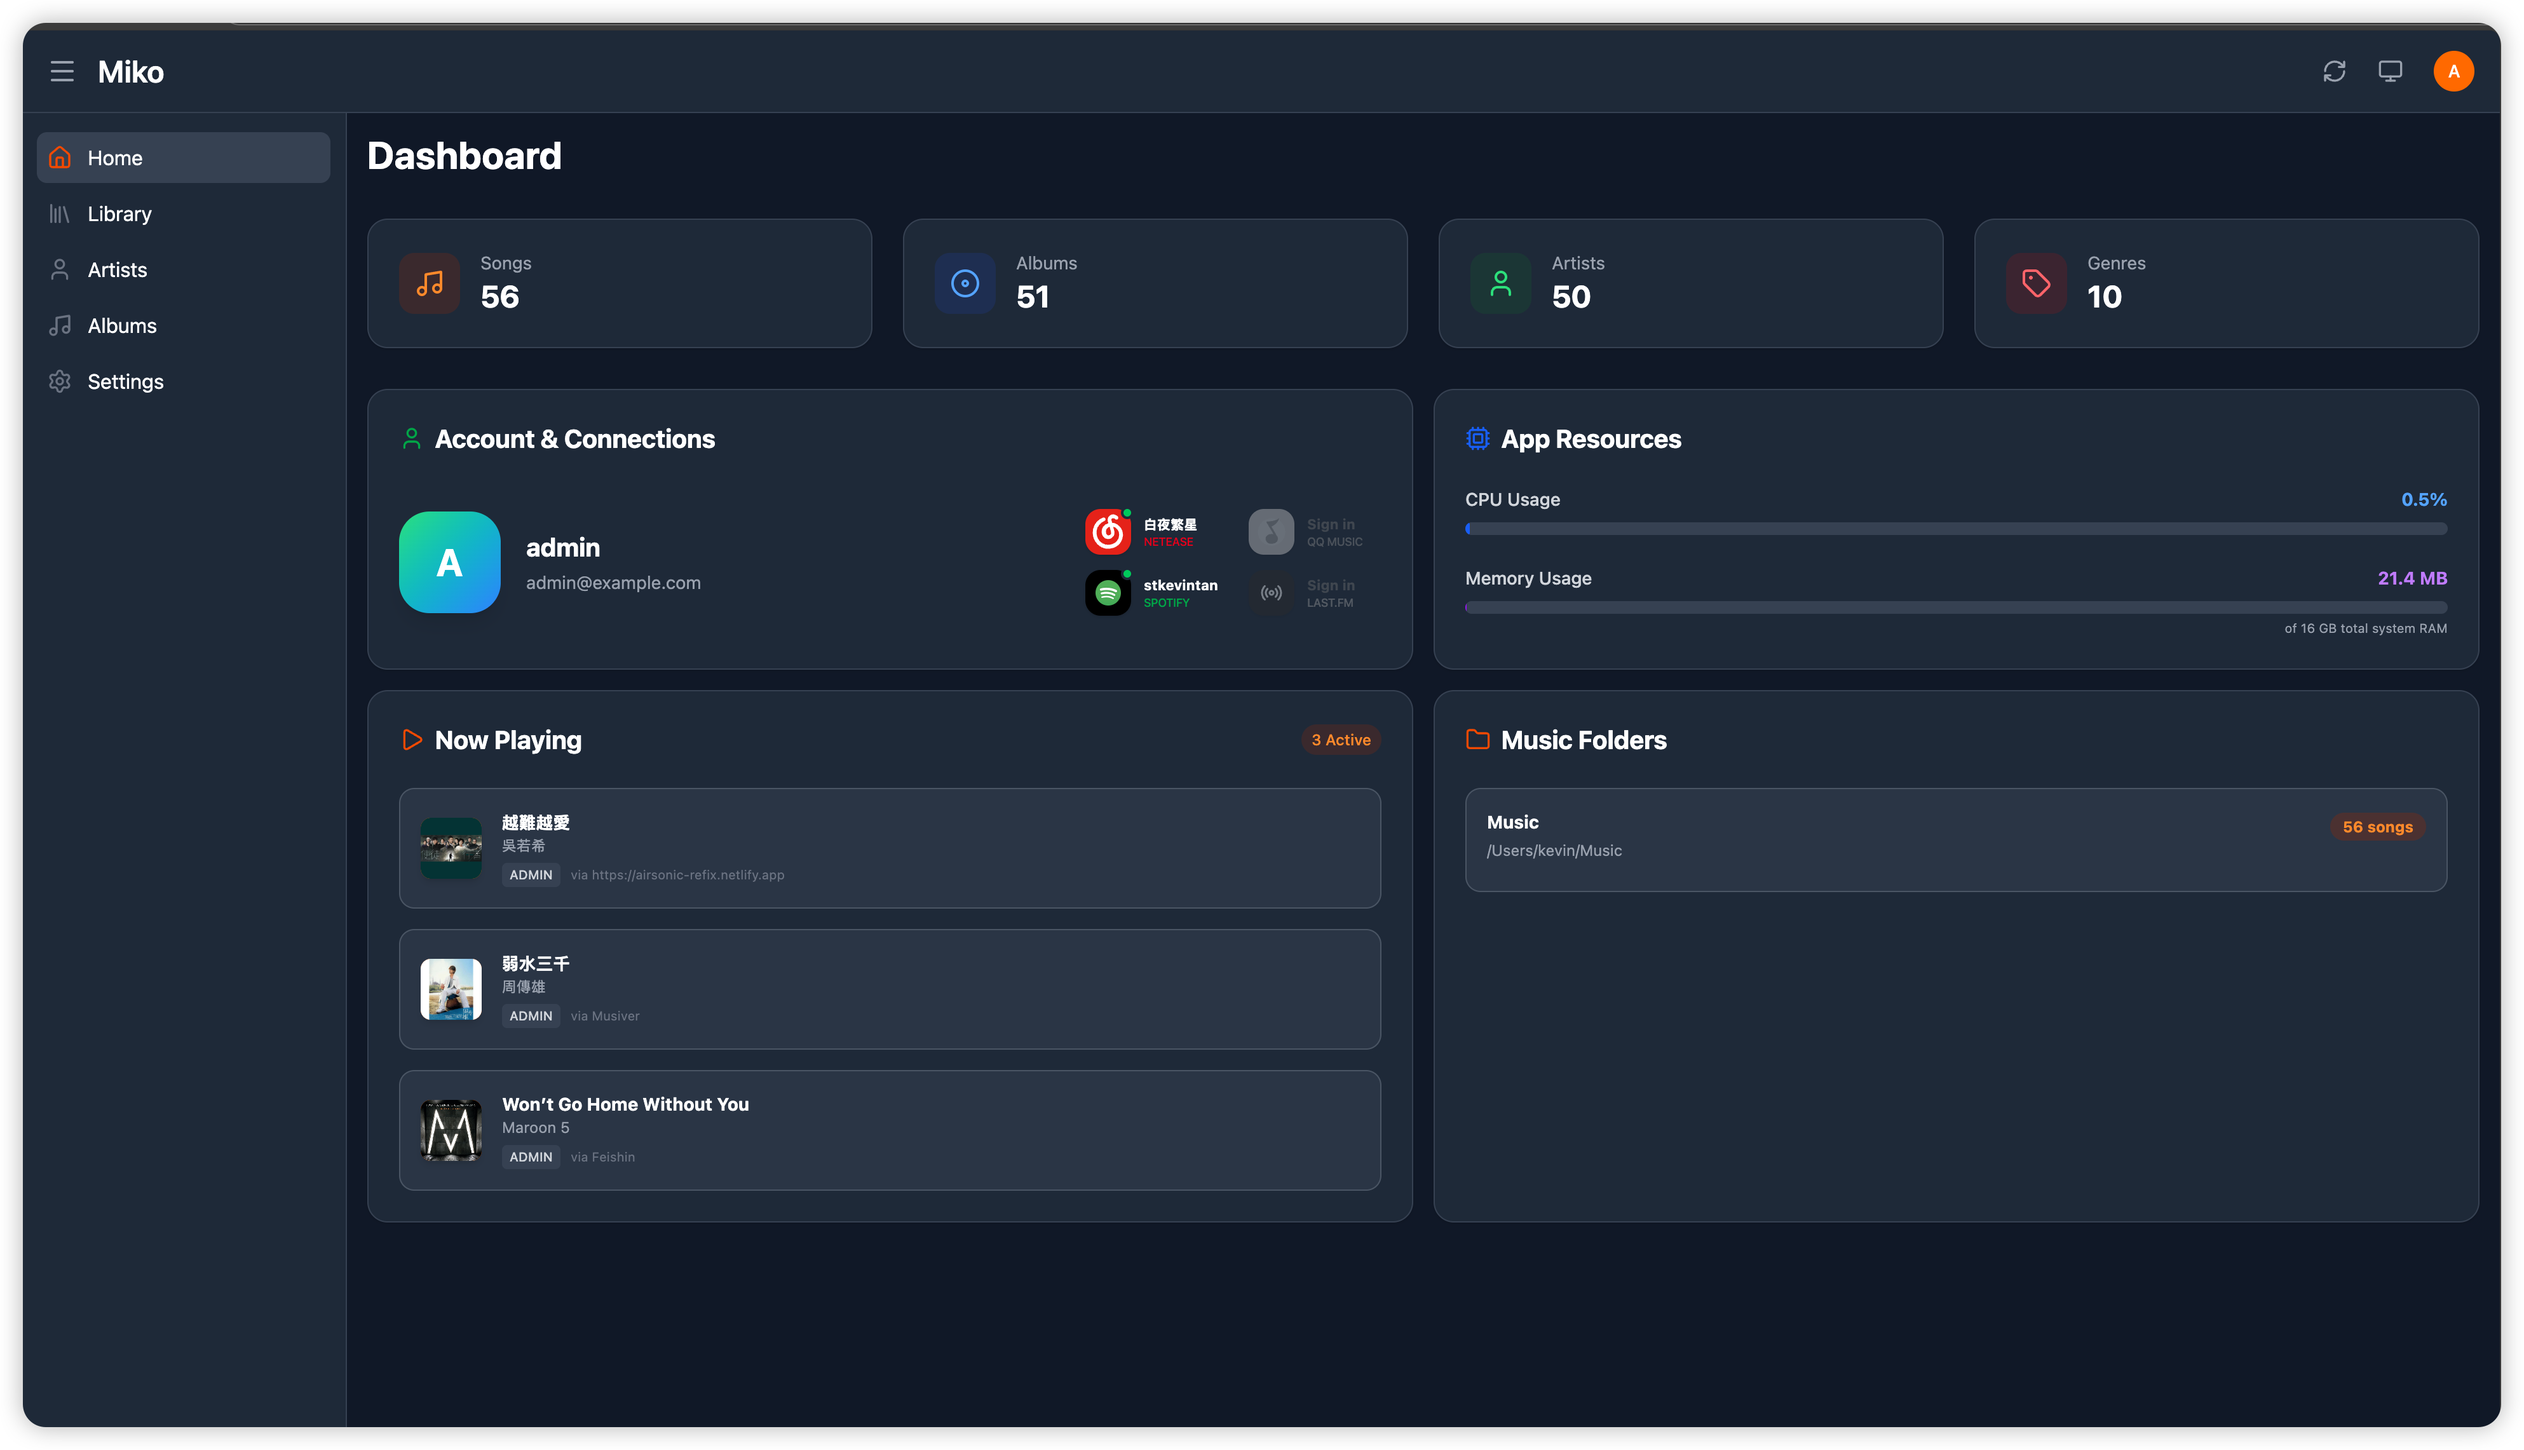
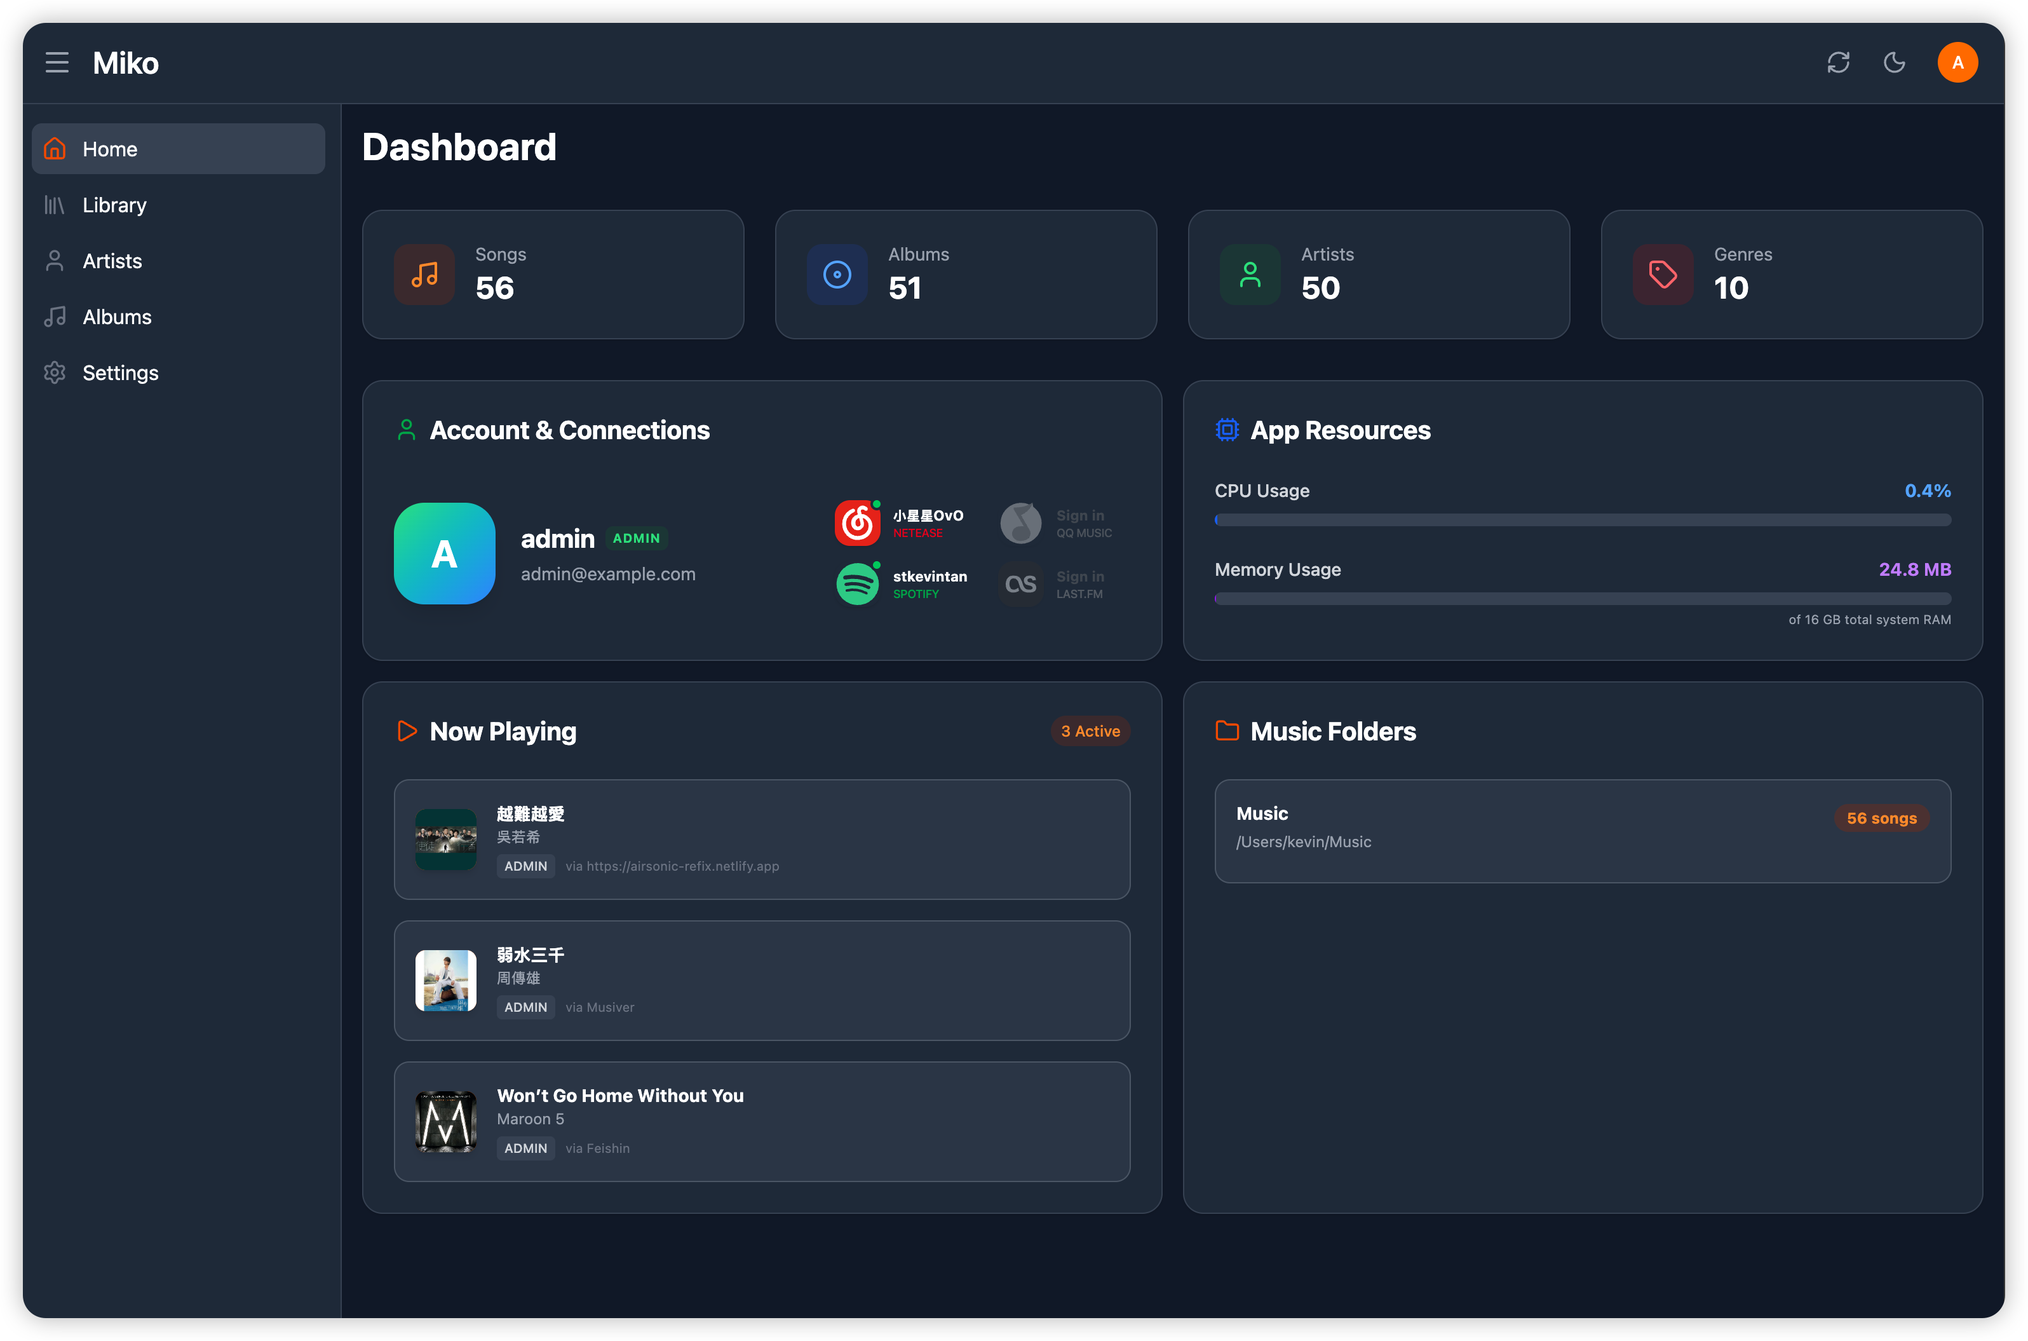
polish the connection items

diff --git a/web/routes/Dashboard.svelte b/web/routes/Dashboard.svelte
@@ -4,9 +4,11 @@
     import MainLayout from '../components/MainLayout.svelte';
     import StatCard from '../components/StatCard.svelte';
     import DashboardCard from '../components/DashboardCard.svelte';
+    import ConnectionItem from '../components/ConnectionItem.svelte';
     import { authStore } from '../lib/auth.svelte';
     import { toast } from '../lib/toast.svelte';
-    import spotifyIcon from '../icons/spotify-48.png';
+    import spotifyIcon from '../icons/spotify.svg';
+    import lastfmIcon from '../icons/lastfm.svg';
     import neteaseIcon from '../icons/netease.svg';
     import qqmusicIcon from '../icons/qqmusic.svg';
 
@@ -20,7 +22,6 @@
         Disc,
         Tag,
         Folder,
-        Radio,
     } from 'lucide-svelte';
 
     let token = $state(localStorage.getItem('token'));
@@ -189,123 +190,35 @@
                             <div
                                 class="grid grid-cols-2 gap-x-6 gap-y-3 shrink-0"
                             >
-                                <!-- Netease Connection -->
-                                <div
-                                    class="flex items-center gap-2.5 group cursor-pointer"
-                                    title="Netease: 白夜繁星"
-                                >
-                                    <div class="relative">
-                                        <div
-                                            class="w-9 h-9 rounded-xl flex items-center justify-center overflow-hidden shadow-sm transition-transform group-hover:scale-110"
-                                        >
-                                            <img
-                                                src={neteaseIcon}
-                                                alt="Netease"
-                                                class="w-full h-full object-contain"
-                                            />
-                                        </div>
-                                        <span
-                                            class="absolute -top-0.5 -right-0.5 block h-2.5 w-2.5 rounded-full bg-green-500 border-2 border-white dark:border-gray-800"
-                                        ></span>
-                                    </div>
-                                    <div class="min-w-0">
-                                        <p
-                                            class="text-[11px] font-bold text-gray-900 dark:text-white leading-tight truncate"
-                                        >
-                                            白夜繁星
-                                        </p>
-                                        <p
-                                            class="text-[9px] text-red-600 font-medium uppercase tracking-tighter leading-none mt-0.5"
-                                        >
-                                            Netease
-                                        </p>
-                                    </div>
-                                </div>
+                                <ConnectionItem
+                                    name="Netease"
+                                    username="小星星OvO"
+                                    iconSrc={neteaseIcon}
+                                    statusColor="text-red-600"
+                                    connected={true}
+                                />
 
-                                <!-- QQ Music Connection -->
-                                <div
-                                    class="flex items-center gap-2.5 group cursor-pointer opacity-40 grayscale hover:opacity-100 hover:grayscale-0 transition-all"
-                                    title="QQ Music: Disconnected"
-                                >
-                                    <div
-                                        class="w-9 h-9 rounded-xl bg-[#FFD000] flex items-center justify-center overflow-hidden shadow-sm transition-transform group-hover:scale-110"
-                                    >
-                                        <img
-                                            src={qqmusicIcon}
-                                            alt="QQ Music"
-                                            class="w-6 h-6 object-contain"
-                                        />
-                                    </div>
-                                    <div class="min-w-0">
-                                        <p
-                                            class="text-[11px] font-bold text-gray-400 dark:text-gray-500 leading-tight truncate"
-                                        >
-                                            Sign in
-                                        </p>
-                                        <p
-                                            class="text-[9px] text-yellow-600 font-medium uppercase tracking-tighter leading-none mt-0.5"
-                                        >
-                                            QQ Music
-                                        </p>
-                                    </div>
-                                </div>
+                                <ConnectionItem
+                                    name="QQ Music"
+                                    iconSrc={qqmusicIcon}
+                                    statusColor="text-yellow-600"
+                                    connected={false}
+                                />
 
-                                <!-- Spotify Connection -->
-                                <div
-                                    class="flex items-center gap-2.5 group cursor-pointer"
-                                    title="Spotify: stkevintan"
-                                >
-                                    <div class="relative">
-                                        <div
-                                            class="w-9 h-9 rounded-xl bg-black flex items-center justify-center overflow-hidden shadow-sm transition-transform group-hover:scale-110"
-                                        >
-                                            <img
-                                                src={spotifyIcon}
-                                                alt="Spotify"
-                                                class="w-6 h-6 object-contain"
-                                            />
-                                        </div>
-                                        <span
-                                            class="absolute -top-0.5 -right-0.5 block h-2.5 w-2.5 rounded-full bg-green-500 border-2 border-white dark:border-gray-800"
-                                        ></span>
-                                    </div>
-                                    <div class="min-w-0">
-                                        <p
-                                            class="text-[11px] font-bold text-gray-900 dark:text-white leading-tight truncate"
-                                        >
-                                            stkevintan
-                                        </p>
-                                        <p
-                                            class="text-[9px] text-green-600 font-medium uppercase tracking-tighter leading-none mt-0.5"
-                                        >
-                                            Spotify
-                                        </p>
-                                    </div>
-                                </div>
+                                <ConnectionItem
+                                    name="Spotify"
+                                    username="stkevintan"
+                                    iconSrc={spotifyIcon}
+                                    statusColor="text-green-600"
+                                    connected={true}
+                                />
 
-                                <!-- Last.fm Connection -->
-                                <div
-                                    class="flex items-center gap-2.5 group cursor-pointer opacity-40 grayscale hover:opacity-100 hover:grayscale-0 transition-all"
-                                    title="Last.fm: Disconnected"
-                                >
-                                    <div
-                                        class="w-9 h-9 rounded-xl bg-red-700 flex items-center justify-center text-white shadow-sm transition-transform group-hover:scale-110"
-                                    >
-                                        <Radio size={18} />
-                                    </div>
-                                    <div class="min-w-0">
-                                        <p
-                                            class="text-[11px] font-bold text-gray-400 dark:text-gray-500 leading-tight truncate"
-                                        >
-                                            Sign in
-                                        </p>
-                                        <p
-                                            class="text-[9px] text-gray-400 font-medium uppercase tracking-tighter leading-none mt-0.5"
-                                        >
-                                            Last.fm
-                                        </p>
-                                    </div>
-                                </div>
+                                <ConnectionItem
+                                    name="Last.fm"
+                                    iconSrc={lastfmIcon}
+                                    statusColor="text-gray-400"
+                                    connected={false}
+                                />
                             </div>
                         </div>
                     </DashboardCard>

diff --git a/web/components/ConnectionItem.svelte b/web/components/ConnectionItem.svelte
@@ -1,0 +1,61 @@
+<script lang="ts">
+    import { Music } from "lucide-svelte";
+
+    interface Props {
+        name: string;
+        username?: string;
+        iconSrc?: string;
+        iconClass?: string;
+        statusColor?: string;
+        connected?: boolean;
+    }
+
+    let {
+        name,
+        username,
+        iconSrc,
+        iconClass = '',
+        statusColor = 'text-gray-400',
+        connected = false,
+    }: Props = $props();
+
+    let title = $derived(connected ? `${name}: ${username}` : `${name}: Disconnected`);
+</script>
+
+<div
+    class="flex items-center gap-2.5 group cursor-pointer {connected ? '' : 'opacity-40 grayscale hover:opacity-100 hover:grayscale-0'} transition-all"
+    {title}
+>
+    <div class="relative">
+        <div
+            class="w-9 h-9 rounded-xl flex items-center justify-center overflow-hidden shadow-sm transition-transform group-hover:scale-110 {iconClass}"
+        >
+            {#if iconSrc}
+                <img
+                    src={iconSrc}
+                    alt={name}
+                    class="w-full h-full object-contain"
+                />
+            {:else}
+                <Music size={18} />
+            {/if}
+        </div>
+        {#if connected}
+            <span
+                class="absolute -top-0.5 -right-0.5 block h-2.5 w-2.5 rounded-full bg-green-500 border-2 border-white dark:border-gray-800"
+            ></span>
+        {/if}
+    </div>
+    <div class="min-w-0">
+        <p
+            class="text-[11px] font-bold leading-tight truncate {connected ? 'text-gray-900 dark:text-white' : 'text-gray-400 dark:text-gray-500'}"
+        >
+            {connected ? username : 'Sign in'}
+        </p>
+        <p
+            class="text-[9px] {statusColor} font-medium uppercase tracking-tighter leading-none mt-0.5"
+        >
+            {name}
+        </p>
+    </div>
+</div>

diff --git a/web/components/MainLayout.svelte b/web/components/MainLayout.svelte
@@ -2,16 +2,33 @@
   import type { Snippet } from 'svelte';
   import Navbar from './Navbar.svelte';
   import Sidebar from './Sidebar.svelte';
+  import { onMount, onDestroy } from 'svelte';
 
   let { children } = $props<{
     children?: Snippet
   }>();
 
-  let isSidebarOpen = $state(true);
+  let isSidebarOpen = $state(window.innerWidth >= 1024);
 
   function toggleSidebar() {
     isSidebarOpen = !isSidebarOpen;
   }
+
+  function handleResize() {
+    if (window.innerWidth < 1024 && isSidebarOpen) {
+      isSidebarOpen = false;
+    } else if (window.innerWidth >= 1024 && !isSidebarOpen) {
+      isSidebarOpen = true;
+    }
+  }
+
+  onMount(() => {
+    window.addEventListener('resize', handleResize);
+  });
+
+  onDestroy(() => {
+    window.removeEventListener('resize', handleResize);
+  });
 </script>
 
 <div class="min-h-screen bg-white dark:bg-gray-900 transition-colors duration-200">

diff --git a/README.md b/README.md
@@ -1,7 +1,7 @@
 # miko-rs
 
 A lightweight, high-performance Subsonic-compatible music server written in Rust.
-![alt text](images/dashboard.png)
+![dashboard](images/dashboard.png)
 ## Features
 
 ### Subsonic API Implementation Status
